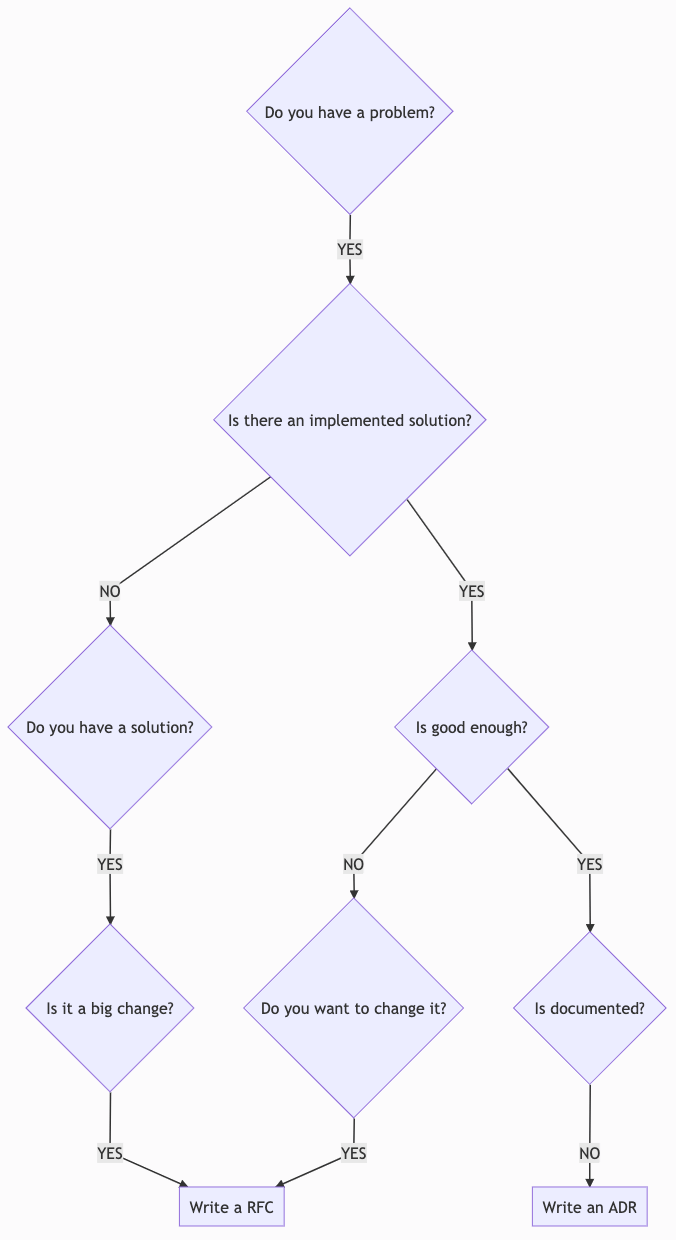
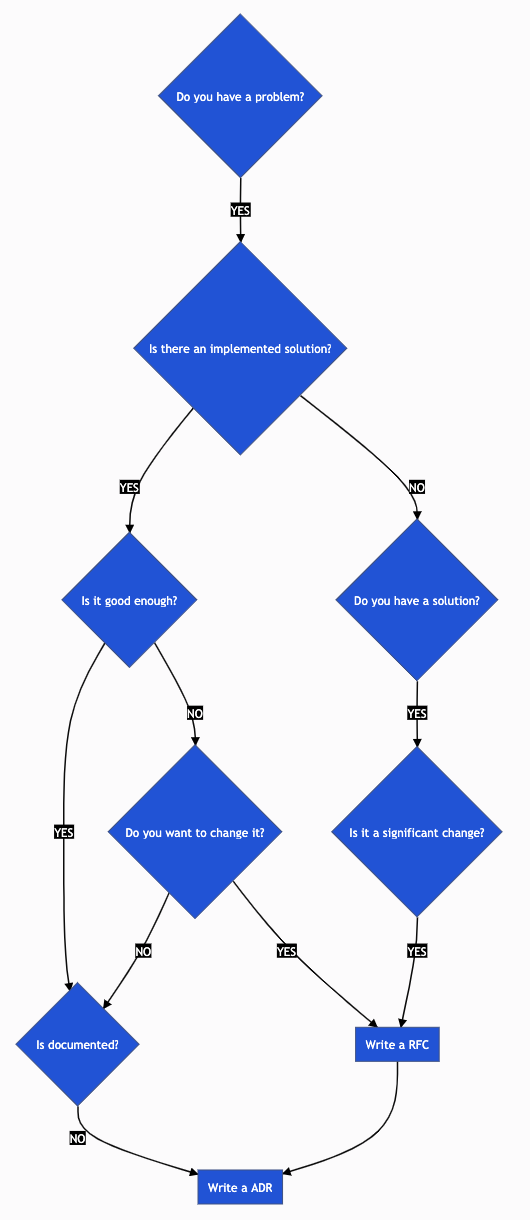
publish: documentation using rfc and adr

diff --git a/styles/index.css b/styles/index.css
@@ -38,8 +38,8 @@ body {
 
 /* Your own custom utilities */
 .admonition {
-  padding:  .5rem 1rem 0rem;
-  margin:  .5rem 0;
+  padding: 0.5rem 1rem 0rem;
+  margin: 0.5rem 0;
 }
 
 /* Your own custom utilities */
@@ -65,32 +65,68 @@ body {
   stroke-width: 0;
 }
 
-.admonition-tip { border-left: 0.2rem solid #1c4ed8; }  
-.admonition-tip .admonition-heading { color: #1c4ed8; }
-.admonition-tip .admonition-icon svg { fill: #1c4ed8; }
+.admonition-tip {
+  border-left: 0.2rem solid #1c4ed8;
+}
+.admonition-tip .admonition-heading {
+  color: #1c4ed8;
+}
+.admonition-tip .admonition-icon svg {
+  fill: #1c4ed8;
+}
 
-.admonition-quote { border-left: 0.2rem solid #1c4ed8; }  
-.admonition-quote .admonition-heading { color: #1c4ed8; }
-.admonition-quote .admonition-icon svg { fill: #1c4ed8; }
+.admonition-quote {
+  border-left: 0.2rem solid #1c4ed8;
+}
+.admonition-quote .admonition-heading {
+  color: #1c4ed8;
+}
+.admonition-quote .admonition-icon svg {
+  fill: #1c4ed8;
+}
 
-.admonition-danger { border-left: 0.2rem solid #d81c61; }  
-.admonition-danger .admonition-heading { color: #d81c61; }
-.admonition-danger .admonition-icon svg { fill: #d81c61; }
+.admonition-danger {
+  border-left: 0.2rem solid #d81c61;
+}
+.admonition-danger .admonition-heading {
+  color: #d81c61;
+}
+.admonition-danger .admonition-icon svg {
+  fill: #d81c61;
+}
 
-.admonition-caution { border-left: 0.2rem solid #f9a62a; }  
-.admonition-caution .admonition-heading { color: #f9a62a; }
-.admonition-caution .admonition-icon svg { fill: #f9a62a; }
+.admonition-caution {
+  border-left: 0.2rem solid #f9a62a;
+}
+.admonition-caution .admonition-heading {
+  color: #f9a62a;
+}
+.admonition-caution .admonition-icon svg {
+  fill: #f9a62a;
+}
 
-.admonition-note { border-left: 0.2rem solid #d81ca6; }  
-.admonition-note .admonition-heading { color: #d81ca6; }
-.admonition-note .admonition-icon svg { fill: #d81ca6; }
+.admonition-note {
+  border-left: 0.2rem solid #d81ca6;
+}
+.admonition-note .admonition-heading {
+  color: #d81ca6;
+}
+.admonition-note .admonition-icon svg {
+  fill: #d81ca6;
+}
 
-.admonition-info { border-left: 0.2rem solid #707070; }  
-.admonition-info .admonition-heading { color: #707070; }
-.admonition-info .admonition-icon svg { fill: #707070; }
+.admonition-info {
+  border-left: 0.2rem solid #707070;
+}
+.admonition-info .admonition-heading {
+  color: #707070;
+}
+.admonition-info .admonition-icon svg {
+  fill: #707070;
+}
 
 .ribbon {
-  background-color: rgba(0, 0, 0, .5);
+  background-color: rgba(0, 0, 0, 0.5);
   border-radius: 2rem;
   position: absolute;
   top: 0;

diff --git a/lib/gtag.ts b/lib/gtag.ts
@@ -12,14 +12,15 @@ type GTagEvent = {
 
 // 📚 Read more: https://developers.google.com/analytics/devguides/collection/gtagjs/pages
 export const pageview = (url: URL) => {
-  window.gtag('config', GA_TRACKING_ID, { page_path: url });
+  window.gtag && window.gtag('config', GA_TRACKING_ID, { page_path: url });
 };
 
 // 📚 Read more: https://developers.google.com/analytics/devguides/collection/gtagjs/events
 export const event = ({ action, category, label, value }: GTagEvent) => {
-  window.gtag('event', action, {
-    event_category: category,
-    event_label: label,
-    value: value,
-  });
+  window.gtag &&
+    window.gtag('event', action, {
+      event_category: category,
+      event_label: label,
+      value: value,
+    });
 };

diff --git a/_posts/es/document-with-rfc-and-adr.md b/_posts/es/document-with-rfc-and-adr.md
@@ -1,0 +1,106 @@
+---
+title: 'Documenta tus decisiones técnicas utilizando RFC y ADR'
+excerpt: 'Una introducción a la generación de documentos RFC (Request for Comments) y ADR (Architecture Decision Record) para el registro de decisiones técnicas.'
+coverImage: '/assets/blog/document-with-rfc-and-adr/cover.png'
+date: '2021-03-31T00:00:00Z'
+tags: [documentation, software architecture, software design]
+---
+
+## TL;DR
+
+- Usar RFCs para crear y refinar propuestas técnicas ayuda no solo a generar mejor documentación sino también a mejorar nuestro proceso de decisiones.
+- Usar ADRs como registro, o historial, de decisiones ayuda también a mejorar el proceso de transmisión de conocimiento dentro del proyecto, por ejemplo en el onboarding de nuevos ingresos.
+- Es recomendable utilizar un template para generar estos documentos de forma rápida: [Documented Software Decisions](https://github.com/emanuelcasco/document-software-decision-template).
+
+## Introducción
+
+Durante el ciclo de vida de un proyecto, **gran parte del tiempo del equipo es dedicado a la toma de decisiones**, estas pueden ir desde cómo diseñar un nuevo servicio, cómo migrar una base de datos, que servicio de terceros utilizar, etc. La falta de un proceso de documentación que acompañe el crecimiento del proyecto puede traer problemas a la larga, volver pasos hacia atrás para recordar los motivos de una decisión suele ser una tarea complicada.
+
+El paso del tiempo y la rotación del equipo, si no es acompañada por material que permita la transmición de conocimiento, resulta en perdida de aprendizajes y experiencias adquiridas. Recordando la primer lección de historia, **"Aquellos que no recuerdan el pasado están condenados a repetirlo"**.
+
+Sin embargo, como mencione anteriormente, este es un problema común, por lo tanto, hay varias posibles soluciones disponibles según tus necesidades. En este post voy a enfocarme en dos herramientas con las que me he sentido particularmente cómodo trabajando, estas son:
+
+1. Formato RFC para generar e iterar propuestas.
+1. Formato ADR como registro de decisiones.
+
+## Request for Comments (RFC) para generar e iterar propuestas
+
+El uso de RFC es tan viejo como Internet, incluso más ya que [se uso para timar decisiones en la construcción del WWW (World Wide Web)](https://www.rfc-editor.org/rfc-index.html), sin embargo, su uso se estuvo expandiendo en los últimos años de la mano de proyectos open source como [React](https://github.com/reactjs/rfcs) o [Rust](https://github.com/rust-lang/rfcs).
+
+Basicamente, un documento RFC (Request for Comments) **es una propuesta técnica escrita que incentiva la iteración de la misma por medio de un analisis exhaustivo y el feedback de pares**. El objetivo es conseguir la mejor solución posible para un problema y mitigar el riesgo de complicaciones en el desarrollo, en definitiva, estamos hablando de **tomar mejores decisiones**.
+
+### Ciclo de vida
+
+1. **Propuesta**: Se presenta una propuesta de cambio.
+2. **Iteración**: La propuesta es iterada con pares con el fín de encontrar errores o posibilidades de mejora, en este proceso es posible que se detecte que la propuesta no es implmentable, en cuyo caso pasa a ser deprecada.
+3. **Implementación**: Luego que la propuesta alcanza un nivel de madurez suficiente y el documento está "completo", entonces es momento de implementar la solución.
+4. **Mantenimiento**: Una vez implementado, puede que un cambio modifique alguna definición de este documento, en ese caso se puede actualizar el RFC o bien marcarlo como deprecado indicando que otro RFC modifica el comportamiento.
+
+:::note Nota
+Idealmente, no se debe modificar el contenido de un RFC ya que sino este perdería su valor historico, por eso, es mejor cambiar su estado (para que quede claro que el comportamiento varió) y enlazar los documentos relacionados.
+:::
+
+### Ejemplos
+
+- [Notion RFC](https://www.notion.so/RFC-Template-Title-8df1bd0d24b0440486fe133eecdf4a5e).
+- [RFC Template | Emanuel Casco](https://github.com/emanuelcasco/document-software-decision-template/blob/main/rfc/template.md).
+
+## Architectural Decision Records (ADRs) como registro de decisiones
+
+Un Architectural Decision Records (ADR) es un **documento que registra una decisión de arquitectura, el contexto en el cual la misma fue tomada y sus consecuencias**. Muchas veces, un ADR es el último paso de un proceso de toma de decisiones que incluyó el armado de un documento RFC, pero esto no siempre tiene que ser así.
+
+:::quote Decisión de Arquitectura (Architectural Decision - AD)
+_*"Decisión relacionada con el diseño de software que refiere tanto a requerimientos funcionales como a los no funcionales y que es significativa para la arquitectura de nuestro sistema."*_
+:::
+
+Algunos de los **beneficios de implementar el uso de ADRs** en tu proceso de desarrollo son los siguientes:
+
+- **Mejora en la transmisión de conocimiento**, ya sea en un ingreso o en una rotación en el equipo. Las personas que se suman al proyecto pueden entender rápidamente el estadio y desarrollo del proyecto simplemente leyendo el registro de ADRs.
+- **Mejor alineación entre los miembros del equipo**. Se mitiga el riesgo de decisiones unilaterales que generen impacto en el proyecto sin que hayan sido consensuadas.
+
+### ¿Cuándo crear un ADR?
+
+Para decidir cuándo tengo que escribir un ADR suelo guiarme por [la definición de Josef Blake del equipo de Spotify](https://engineering.atspotify.com/2020/04/14/when-should-i-write-an-architecture-decision-record/):
+
+:::quote [Josef Blake (Spotify)](https://engineering.atspotify.com/2020/04/14/when-should-i-write-an-architecture-decision-record/) ¿Cuándo se debe escribir un ADR?
+_Siempre que hayan tomado una decisión que impacte **significativamente** en cómo tu equipo trabaja._
+:::
+
+¿Qué se entiende por _*"significativo"*_? Esta es una definición que debe realizar cada equipo, no hay una regla mágica sino que suele ser una construcción en base al criterio y la practica. Sin embargo, es importante tener en cuenta los siguientes puntos:
+
+- Todo documento RFC debería tener un documento ADR homónimo.
+- Si se toma alguna definición "significativa" en una reunión, es importante que la misma quede reflejada en un ADR.
+
+En las siguientes páginas podrán encontrar ejemplos y herramientas para el diseño de ADRs (incluyo también mi template):
+
+- [ADR Tools | Nat Pryce](https://github.com/npryce/adr-tools).
+- [ADR | GitHub](https://adr.github.io/).
+- [ADR Examples | Joel Parker Henderson](https://github.com/npryce/adr-tools).
+- [ADR Template | Emanuel Casco](https://github.com/emanuelcasco/document-software-decision-template/blob/main/adr/template.md).
+
+## Consideraciones
+
+La adopción de estás practicas en tu equipo puede no ser sencilla, los procesos de documentación en el desarrollo de software suelen ser un punto de conflicto en los equipos y hay muchas visiones contrapuestas al respecto.
+
+Mi primer consejo para alguien que quiera mejorar la documentación en un equipo de desarrollo es: paciencia. **Es necesario que la mayoría del equipo este comprometido con el proceso para que este pueda implementarse**.
+
+### Primeros pasos
+
+- **KISS** (Keep It Stupid Simple), **es importante mantener la metodología de trabajo lo más sencilla posible** para que los miembros del equipo se sientan incentivados a seguirla.
+- **El proceso debe adaptarse a tu equipo**, no al revés.
+- **Da el primer paso**. Una vez definida la plataforma donde generar y persistir los documentos, es una buena idea crear un primer documento de cada tipo. Se puede usar la misma implementación de RFC y ADR como caso de ejemplo para que el resto los use de base.
+- También **es una buena idea tener templates** de los documentos, e inclusive un generador, para automatizar la generación de estos archivos. En el [siguiente link](https://github.com/emanuelcasco/document-software-decision-template) comparto un repositorio con templates para ambos tipos de documentos.
+
+### Guía visual de cuándo y cómo documentar
+
+![Diagram Flow to document](/assets/blog/document-with-rfc-and-adr/image01.png)
+
+## Conclusiones
+
+¡Eso es todo! Espero que este post te haya sido de ayuda, dejo debajo un listado de links útiles (varios ya los mencione en el post) por si deseas profundizar en el tema:
+
+- [Templates | Emanuel Casco](https://github.com/emanuelcasco/document-software-decision-template).
+- [When should I write an ADR? | Spotify Engineering Blog](~https://engineering.atspotify.com/2020/04/14/when-should-i-write-an-architecture-decision-record/~).
+- [ADR Tools | Nat Pryce](https://github.com/npryce/adr-tools).
+- [ADR | GitHub](https://adr.github.io/).
+- [ADR Examples | Joel Parker Henderson](https://github.com/npryce/adr-tools).

diff --git a/_posts/en/document-with-rfc-and-adr.md b/_posts/en/document-with-rfc-and-adr.md
@@ -1,0 +1,104 @@
+---
+title: 'Document your technical decisions using RFC and ADR'
+excerpt: 'A brief introduction to the generation of RFC (Request for Comments) and ADR (Architecture Decision Record) documents to iterate and record your technical decisions.'
+coverImage: '/assets/blog/document-with-rfc-and-adr/cover.png'
+date: '2021-03-31T00:00:00Z'
+tags: [documentation, software architecture, software design]
+---
+
+## TL;DR
+
+- Use RFCs to create and refine technical proposals, this will improve not only your documentation but your decision making.
+- Use ADRs to record a history of your technical decisions to improve the knoledge tranfer in your team.
+- It's recommended to implement templates to generate this documents:[Documented Software Decisions](https://github.com/emanuelcasco/document-software-decision-template).
+
+## Introduction
+
+Over a project life-cycle, **a great deal of time is spent in making decisions**, for example: how to design the solution to integrate a new service to our system, data migration from a legacy database, which third-party service use, and so on. The lack of a documentation process that follows the project growth can result in long-term problems, coming back your steps to recall why did you take a decision is usually a complicated task.
+
+The passage of the time and the team rotation without documentation that enables the knowledge transfer results in the lost of lessons learned and valuable experiences. Citing the first lesson of History: **"Those who cannot remember the past are condemned to repeat it."**.
+
+However, as I mentioned before this is a common problem in software development, therefore, there are a lot of possible solutions for it depending of your needs. In this post, I'm going to focus in two particular tools that have helped me in the past:
+
+1. RFC to generate and iterate proposals.
+1. ADR to record decisions.
+
+## Request for Comments (RFC) to generate and iterate proposals
+
+RFC usage is as old as the same Internet, or even more because [this tool was used to make decisions in the design of the WWW [World Wide Web](https://www.rfc-editor.org/rfc-index.html), besides, the use of this tool has increased over the last years guided by Open Source projects like [React](https://github.com/reactjs/rfcs) and [Rust](https://github.com/rust-lang/rfcs).
+
+Basically, a RFC (Request for Comments) document **is a written technical proposal intended to encourage the iteration of a solution based on exhaustive analysis and peers feedback**. The objective is to come up the best possible solution for a problem and mitigate the risk of complications at the development, definitely, we are talking about **making better decisions**.
+
+### Life-cycle
+
+1. **Proposal**: Change proposal document is presented.
+2. **Iteration**: The proposal is iterated based on feedback to find issues or improvements. At this moment, is possible that we find out the solution is unviable, in that case, the RFC should be marked as ""deprecated.
+3. **Implementation**: When the proposal has madured enough then we can close the document and implement the solution.
+4. **Maintaining**: Once implemented, the solution may require some modification, in that case you can either modify the original document or update set it as "deprecated" and reference it from a new RFC document with the change proposal.
+
+:::note Note
+Is not recommended to modify an already implemented RFC as doint it we reduce its value as "history".
+:::
+
+### Examples
+
+- [Notion RFC](https://www.notion.so/RFC-Template-Title-8df1bd0d24b0440486fe133eecdf4a5e).
+- [RFC Template | Emanuel Casco](https://github.com/emanuelcasco/document-software-decision-template/blob/main/rfc/template.md).
+
+## Architectural Decision Records (ADRs) to record decisions
+
+An Architectural Decision Records (ADR) is a document that **record an Architectural Decision**, with its context and consequences. Usually, an ADR is the last step of a full decision making process that included a RFC document creation, but this is not always true.
+
+:::quote Decisión de Arquitectura (Architectural Decision - AD)
+_*"Software design related decision that could imply either functional as non-functional requirements and has a **significant** impact over our system architecture."*_
+:::
+
+Some ADR benefits are:
+
+- **Improve knowledge transfer** (oboardings or rotations), as the people joining the tean can read the last team decision and infer how it works, and so on.
+- **Improve alignment between members**. Unilateral decisions risk is mitigated as all impactfull decisions are consensual.
+
+### When to create an ADR?
+
+To ask this question I like to make reference to the following post from Spotify Engineering blog:
+
+:::quote [Josef Blake (Spotify)](https://engineering.atspotify.com/2020/04/14/when-should-i-write-an-architecture-decision-record/)
+_"Always you made a significant decision that impacts how engineers write software."_
+:::
+
+What is a "significand decision" is something your team has to decide and depends on the context. There is no golden rule but it is more a construction based on your and your team experience. However, keep in mind the following topics:
+
+- All RFC document must has an ADRTodo documento RFC debería tener un documento namesake ADR.
+- If your team take any "significant" in a meeting, it must be reflected in your ADRs.
+
+Following links include RFC examples and tools:
+
+- [ADR Tools | Nat Pryce](https://github.com/npryce/adr-tools).
+- [ADR | GitHub](https://adr.github.io/).
+- [ADR Examples | Joel Parker Henderson](https://github.com/npryce/adr-tools).
+- [ADR Template | Emanuel Casco](https://github.com/emanuelcasco/document-software-decision-template/blob/main/adr/template.md).
+
+## Last considerations
+
+The adoption of these tools in your team could not be easy, documentation process are often a conflict point in the engineering teams. My first advide would be: be patient. **It is necessary, for this process to work, that your team get involved in it**.
+
+### First Steps
+
+- **KISS** (Keep It Stupid Simple), **it is important to keep the documentation metodology as simple as posible in order to succeed.**
+- **The process must adapt your team, not the other way around**.
+- **Take the first step.**. Once the tools and the platform your team is going to use to write the documents, it is a good idea to create the first documents as a reference for the rest of the team. You could even write a document recording that you decided to write documentes using RFC and ADR.
+- Also **is a good idea to create templates for your documents**, or an script to generate them. The [following link](https://github.com/emanuelcasco/document-software-decision-template) includes some documents templates.
+
+### Graphic guide of when and how to document
+
+![Diagram Flow to document](/assets/blog/document-with-rfc-and-adr/image01.png)
+
+## Conclusions
+
+That's all for now! Hopefully this post has been helpful to you, below you will find a list with usefull resources in case you are interested in continuing reading about these topics:
+
+- [Templates | Emanuel Casco](https://github.com/emanuelcasco/document-software-decision-template).
+- [When should I write an ADR? | Spotify Engineering Blog](~https://engineering.atspotify.com/2020/04/14/when-should-i-write-an-architecture-decision-record/~).
+- [ADR Tools | Nat Pryce](https://github.com/npryce/adr-tools).
+- [ADR | GitHub](https://adr.github.io/).
+- [ADR Examples | Joel Parker Henderson](https://github.com/npryce/adr-tools).
